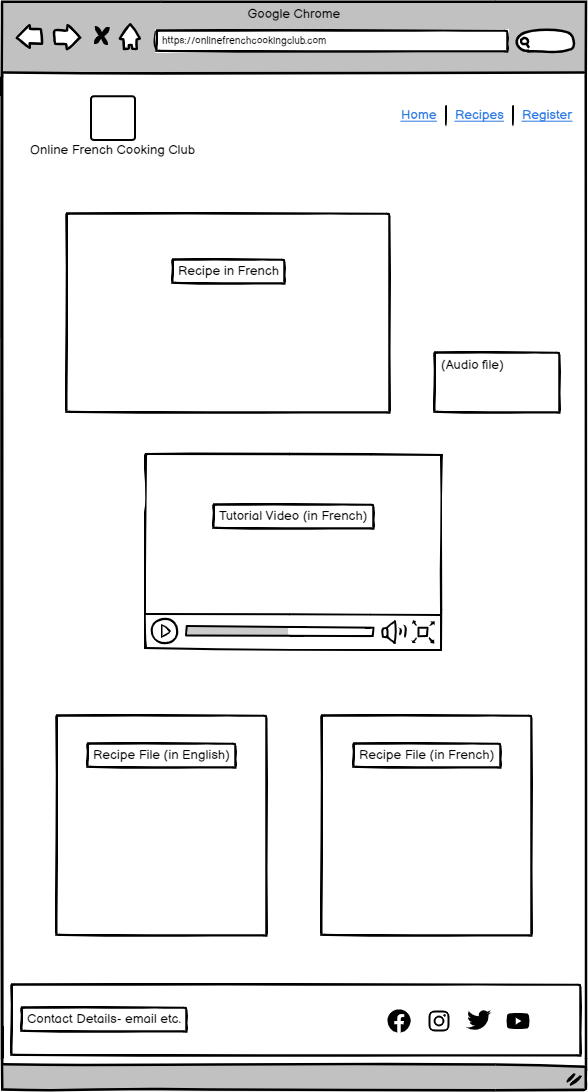
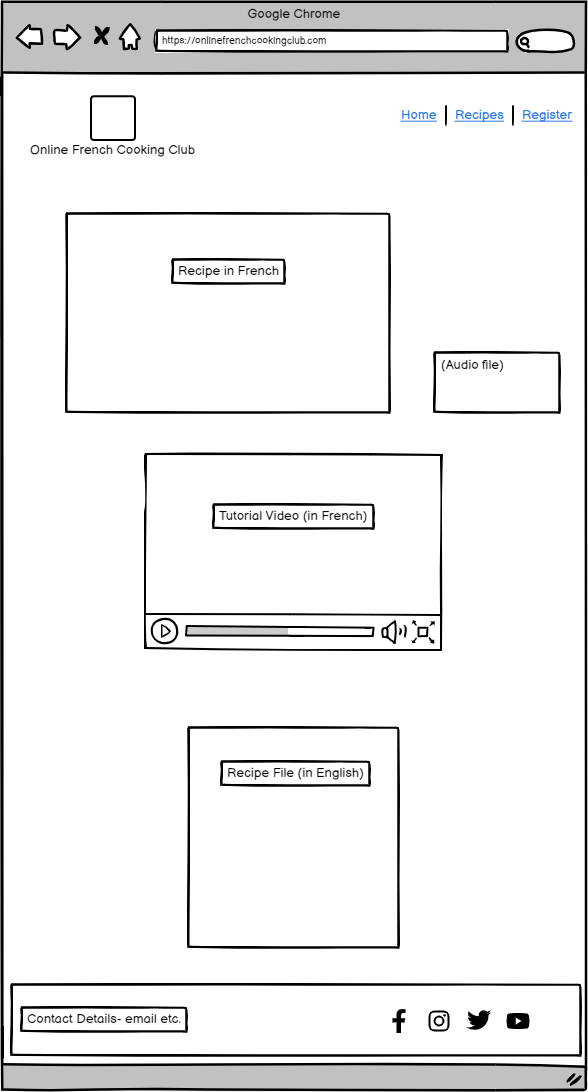
feat: changed the wireframe image for page 3 of the website. Also added a link to the wireframes for tablet view.

Changed region(s): [[0.0918, 0.6538, 0.8571, 0.8718], [0.8878, 0.6538, 0.9184, 0.8718], [0.6429, 0.9029, 0.7041, 0.9652]]

diff --git a/README.md b/README.md
@@ -40,7 +40,7 @@ Wireframes here
 •	(link) Wireframe for Tablet
 •	(link) Wireframe for Desktop
 
-#### Desktop Wireframes
+### Desktop Wireframes
 https://balsamiq.cloud/sj9vnze/ptrz8d9/rA818
 
 ![alt text](assets/images/readme-file-screenshots/1-desktop-wireframe-home-page.png)
@@ -50,6 +50,11 @@ https://balsamiq.cloud/sj9vnze/ptrz8d9/rA818
 ![alt text](assets/images/readme-file-screenshots/3-desktop-recipe-page-1.png)
 
 ![alt text](assets/images/readme-file-screenshots/4-registration-page.png)
+
+### Tablet Wireframes
+https://balsamiq.cloud/sbqgqgv/pdf8jhp/r0E5E
+
+### Mobile Wireframes
 
 ### v. Surface Plane
 
